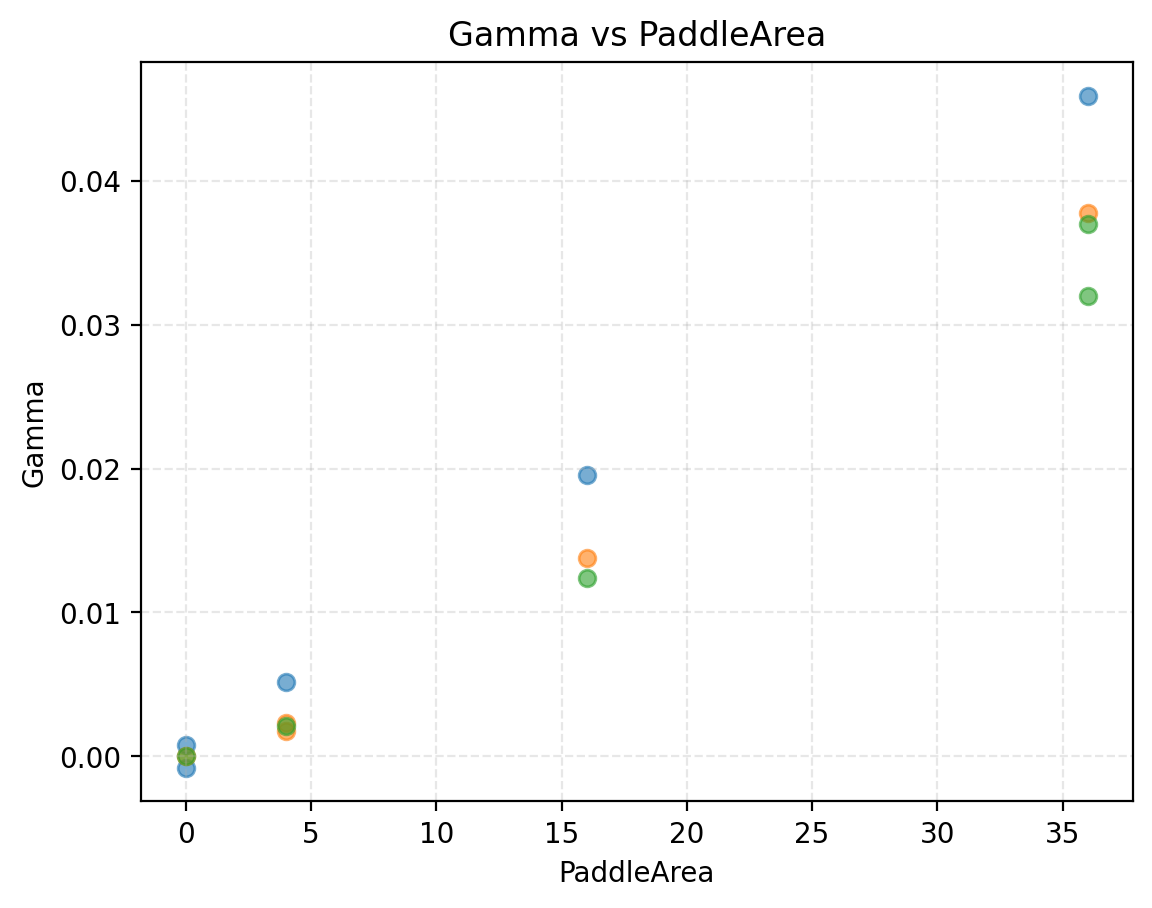
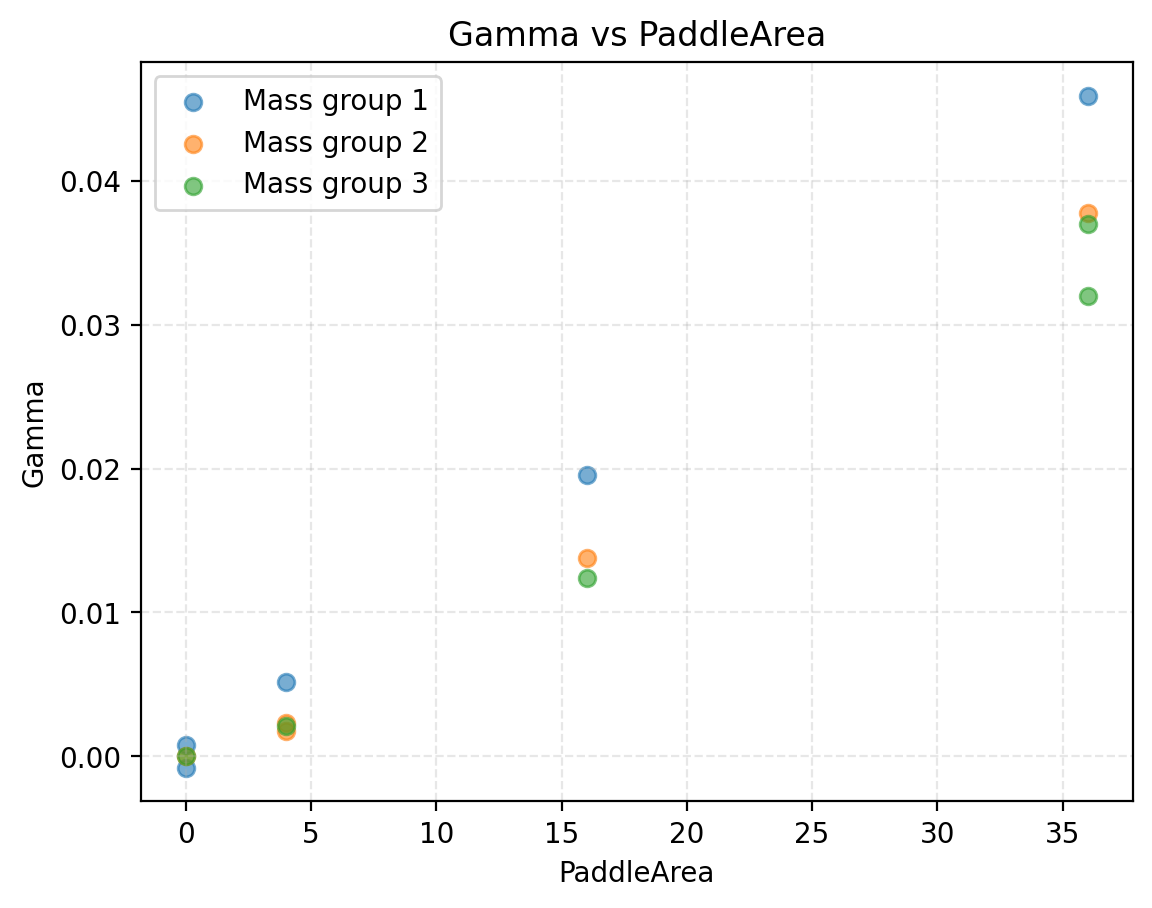
Friday August 21 -- Final Report writing

Changed region(s): [[0.125, 0.0617, 0.375, 0.2467]]

diff --git a/experiment/measuring_paddle_and_mass_effect.py b/experiment/measuring_paddle_and_mass_effect.py
@@ -54,6 +54,7 @@ plot_list([Runs11to15_sorted])
 plt.show()
 
 plot_list([Runs1to5_sorted, Runs6to10_sorted, Runs11to15_sorted])
+plt.legend(['Mass group 1', 'Mass group 2', 'Mass group 3'])
 plt.savefig('figures/gamma_vs_paddle_and_mass.png', dpi=200, bbox_inches='tight')
 plt.show()
 

diff --git a/report/final_report.md b/report/final_report.md
@@ -3,45 +3,24 @@
 **Can AI Discover Physics from Observation?**
 **Aum · HAL Sciences Research Internship · 2026**
 
-> Guidance is in italics. Delete each note as you fill that section in. Write the
-> abstract last. Five or six figures, each one referenced in the text.
-
 ## Abstract
-**Gap** Most of this would probably need to be written from scratch
-_The question, what you measured, what you found about the motion, what the models
-did with your data, and how confident you are. Three to five sentences._
+
+The question is "Can an AI actually reason the laws of nature with enough data, or is it simply using what it already knows?" I did an experiment where I measured the vertical displacement over time of a mass-spring system when pulled a consistant amount with varying masses and paddle sizes. The motion appeared to dampen following the equation for a damped harmonic oscillator: $y(t) = A e^{-\gamma t}\cos(\omega t + \phi) + C$. I had 2 AIs process the data for 2 of my runs and figure out the equations that fit the data to see if they can reason, which they did somewhat like humans. Ultimately, I found the results to be inconclusive as there were was limited data, errors, and other factors that made it harder to determine to what extent the models were reasoning.
 
 ## 1. The question
-**Gap:** need to from scratch why it matters
-_~~State the question~~ and why it matters. Reciting a known law is not the same as
-inferring one from evidence._
+
 Can an AI actually reason the laws of nature with enough data, or is it simply using what it already knows?
+It is important to know the difference between when an AI is just reciting a law compared to when it is genuinely figuring a law out. If AI is to help humanity in the future, it cannot just rediscover already known physics, it has to work with the data to come up with something new. This experiment was designed to see if AIs are capable of figuring out something new from data.
 
 ## 2. Experiment
-**Gap**: more explanation for masses, marker, camera, paddles, the conditions, and how I used the ruler to scale. 
 
-_The apparatus: ~~spring~~, masses, marker, ruler, camera, foam paddles. How you
-weighed the masses and how the ruler was used to set the length scale. The
-conditions you ran, mass against paddle size, ~~the number of runs~~, and how they were
-labeled. Enough detail to repeat it._
-
-I tried a few springs before settling on the final ones, each which had their own problem. The first few springs were problematic because they were super small and super powerful. I could immediately tell they wouldn't work because I could barely stretch them, and even the heaviest of the weights we had wouldn't do enough. Then, we found weaker springs. The problem with some of them was that they couldn't handle the near 300g weight of some of the builds, meaning they would be broken by the time all the trials were done. The spring I settled on was the best of the weaker springs, allowing me to easily stretch it, record it, and not worry about it breaking from all the weight.
-Since I used a yardstick, my data was all collected in inches.
-I pulled the masses down 4 inches before releasing them. I recorded the 15 runs, restarting any that had too much of a side to side angle initially.
+I tried a few springs before settling on the final ones, each which had their own problem. The first few springs were problematic because they were super small and super powerful. I could immediately tell they wouldn't work because I could barely stretch them, and even the heaviest of the weights we had wouldn't do enough. Then, we found weaker springs. The problem with some of them was that they couldn't handle the near 300g weight of some of the builds, meaning they would be broken by the time all the trials were done. The spring I settled on was the best of the weaker springs, allowing me to easily stretch it, record it, and not worry about it breaking from all the weight. The smallest mass I used was 178 grams, the middle mass was 230 grams, and the largest mass was 272 grams. These massses were built from nuts and washers on an eyebolt. I weighed each mass using a kitchen scale multiple times, and took the most common result. The smallest paddle added 1 gram of weight, the medium sized paddle added 7 grams, and the largest paddle added 15 grams of weight. The hook that connected my spring to the maasses had a little red marker on it that I was able to use as a reference point during tracking. My camera was set up level, a decent distance away, alowing me to capture the full vertical and horizontal swing. Each paddle was made of foam cut from the same board, and had dimensions of 2x2, 4x4, and 6x6. They were mounted directly onto the middle of the eyebolt. I set up a ruler next to the hanging mass, just far enough away that it wouldn't interfere with the motion. Since I used a yardstick, my data was all collected in inches. I pulled the masses down 4 inches before releasing them. I recorded the 15 runs, restarting any that had too much of a side to side swing initially. There were 5 runs per mass: 1 for each paddle size (including no paddle), and a repeat for the 5th run of each group. Run05 was no paddle, run10 was a 2x2 paddle, and run15 was a 6x6 paddle. Each run was labeled with a mass and paddle key. M1, M2, or M3, and P0, P2, P4, or P6.
 
 ## 3. From video to data
-**GAP** (I explained some of this in the notebook, but most of the process got reworked over time due to a variety of problems)
-_Tracking, export, sampling rate, and the length of each run. How you cleaned the
-data and where the tracking was unreliable._
+
+I used the Tracker video analysis tool to track the videos. I put them into tracker, and marked a consistent point in my set up every three frames to track the oscillations. I had a red marker on my physical set up that I could follow in tracking. The length of each run was 35 seconds, 30 fps. I exported the data to a csv file using a comma as the delimeter, and then used a python script with pandas to remove lines that had any missing values (which were the lines that had the untracted frames.) The way I calibrated the tracking was scaling with the ruler.  The tracking only really appeared unreliable for run 15, where there were seemingly random peaks every 3 or so oscillations.
 
 ## 4. The motion
-**Gap:** Which model the residuals rule out and the figures. Most of the figures explanation portion of the notebook is written as if you already know everything there is to know, so ideally I would rewrite that here
-_~~Fit the simple harmonic model, then the damped model. Show the residuals for both~~
-and explain which model the residuals rule out._
-
-_~~Report omega and gamma across the runs. How omega varies with mass, how gamma
-varies with paddle size~~, and what happens to that relationship once the mass is
-accounted for. ~~State your uncertainty in gamma~~ and where it comes from._
 
 ![Figure 1: run04, raw data and damped fit](../figures/fit_run04.png)
 ![Figure 2: run11, raw data and damped fit](../figures/fit_run11.png)
@@ -49,6 +28,7 @@ accounted for. ~~State your uncertainty in gamma~~ and where it comes from._
 ![Figure 4: omega against mass](../figures/omega_vs_mass.png)
 ![Figure 5: gamma against paddle](../figures/gamma_vs_paddle.png)
 ![Figure 6: residuals, simple harmonic against damped](../figures/residuals_fit_run04.png)
+![Figure 7: Paddles and mass against gamma](../figures/gamma_vs_paddle_and_mass.png)
 
 Table: fitted parameters, all runs 
 | run | A | gamma | omega | phi | C | mass_grams | paddle_inches |
@@ -76,19 +56,9 @@ Figure 4 depicts how mass influences $\omega$ (omega), which follows the period 
 Figure 6 is there to show why there is a damping factor at all. It depicts the residuals when using a simple fit versus the more complicated fit for damped harmonic motion. When I plotted the graph of the simple model's residual, the residuals appeared to follow asymptotes similar to hyperbolas, slightly rotated. There is a moment in the middle where the swap between the predictions having a magnitude too low and too high is visible. I plotted the residual for the damped model and it looked like basically random noise that's only pattern was having highs and lows on somewhat regular intervals, though with almost random (small) magnitudes. The residuals look completely different because the simple model's residuals were just way larger.
 Omega decreased as masses increased, matching my earlier predictions. Omega decreasing means a longer period. This follows the period equation (which predicts that mass increases period). The omega values varied a decent bit in each mass group, but there is still a very clear trend line showing omega decreasing with mass. In the gamma verse paddle_size plot, it appears gamma increases with paddle sizes. It too varies a lot in each paddle group, with the sort of following a power curve, but it is unclear due to the fact there are only 4 sizes. Sizes 0 and 2 are pretty similar to each other, but by paddle size of 6, it becomes significantly clearer that paddles have a huge impact on gamma, meaning they increase decay rate as predicted.
 There is some uncertainty in the gamma and omega values. The gamma values in run 1 vs run 5 are 0.0014 away, and omega values are 0.06 away. These aren't the largest differences, but they are relatively big still. The uncertainty in gamma is close to roughly 0.005 overall, as that is the gap in the gammas between runs 14 and 15.
-When comparing gamma to paddle size squared, instead the effect of paddle surface area can be seen. After adjusting the gamma values to remove the baseline gamma from the spring and masses, the gamma vs paddle size squared ratio appears to be quite linear. When accounting for mass, the relationship should have been $p_c = \tfrac{2*m*\omega_a}{size^2}$ where $p_c$ is paddle constant, $m$ is mass, $\omega_a$ is omega adjusted, and $size^2$ is paddle area. After following this equation, each paddle size should have a roughly equal constant, but instead I found that they only held for the smallest masses I tested. When working with bigger masses, each paddle seemed to have a random constant that didn't even hold between seemingly identical runs (like runs 7 and 10 having constants that were different by about 0.07 despite having the same mass and paddle size). It can't be known from just this data alone, but it is likelier that the paddle constants are similar and do follow that equation because they held for the only mass group where the baseline damping that I subtracted was an average of 2 numbers, meaning more precision. Another potential reason these numbers were off is because of the actual way air resistance works. Air resistance on a flat paddle is closer to being proportional to speed squared, but my assumptions are off the idea that air resistance is proportional to speed. These are good effective numbers, but not really exact physical constants.
+When comparing gamma to paddle size squared, instead the effect of paddle surface area can be seen. After adjusting the gamma values to remove the baseline gamma from the spring and masses, the gamma vs paddle size squared ratio appears to be quite linear. This is what appears in figure 7, with each mass group getting a different color. When accounting for mass, the relationship should have been $p_c = \tfrac{2*m*\gamma}{size^2}$ where $p_c$ is paddle constant, $m$ is mass, $\gamma$ is gamma adjusted, and $size^2$ is paddle area. After following this equation, each paddle size should have a roughly equal constant, but instead I found that they only held for the smallest masses I tested. When working with bigger masses, each paddle seemed to have a random constant that didn't even hold between seemingly identical runs (like runs 7 and 10 having constants that were different by about 0.07 despite having the same mass and paddle size). It can't be known from just this data alone, but it is likelier that the paddle constants are similar and do follow that equation because they held for the only mass group where the baseline damping that I subtracted was an average of 2 numbers, meaning more precision. Another potential reason these numbers were off is because of the actual way air resistance works. Air resistance on a flat paddle is closer to being proportional to speed squared, but my assumptions are off the idea that air resistance is proportional to speed. These are good effective numbers, but not really exact physical constants. Noticably in the data, every run with a 6 inch paddle had a roughly equal guess for the constant. This guess also matches with the guess that can be made from the first mass group: 0.45. Perhaps the issue that caused the constants to be so random was that the paddle sizes were so small the effects were negligible, which would also explain why the gaps for the 2x2 in paddle were so large.
 
 ## 5. Testing the models
-**Gap** Actual explanation of the prompts, the actual runs chosen, and the specific model of each model
-_~~The four rungs~~. For each, what was given and what was withheld, and how the answer
-was kept out of the prompt. The two runs, and why the same prompt on two different
-runs is a controlled comparison. The two models tested._
-
-_Then the results. ~~The reasoned, recognized and failed classification across both
-models.~~ The claimed values against your fitted values, including the unit
-conversions needed before they could be compared. Whether the models distinguished
-the two runs, and whether they said so or only behaved differently. What they
-claimed about their own confidence, against what their answers showed._
 
 Reasoned, recognized, failed, both models, all eight answers
 
@@ -133,16 +103,14 @@ I have this data with 2 columns, column 1 and column 2. Find some equation that 
 
 I did an experiment, and here is the data that came from it. The first column is time in seconds, and the second is a measurement. What processes could produce this data and what equations would fit it? How confident are you in your answer and what in the data supports it?
 
-
-ChatGPT and Claude are two of the most advanced AIs there are. They could look at a bunch of data without even knowing what the numbers mean, and come up with an equation to fit the data. Both AIs acted very similar throughout the ladder, following the patterns when they were told more, sometimes reasoning when they were told less, and sometimes failing to reach the proper solution entirely. 
+The AIs responded very differently betweens the runs is because of the runs chosen. The first 4 prompts used the data from run04, which was the run that had the most damping across all 15 of my runs. This meant the AIs were significantly more likely to add a damping factor to their equations. On the other hand, they had to work with the data from run11 for the other 4 prompts. That data barely had an damping at all, so the AIs often omitted the damping factor from their equations. They only put it into rung 1 because it was an explanation of the experiment, and the little bit about the paddles probably subtly hinted to them that damping matters. Rung 2's prompt, on the other hand, only tells them that there was an experiment involving time, not what the experiment actually was. This meant they couuld guess that it was some physical process that involved oscillations, but they couldn't guess what. Rung 4 was similar to rung 2, except the AIs had to work with rounded data. The major difference in the data also meant that rung 4 was perfect to check for the AI's confidence in their answers, as they had much less to work with. Rung 3 doesn't use rounded data, but uses a more obscure prompt. Instead of knowing I did an experiment involving time, all the AIs knew is that I had some data. They were asked to relate the data and explain why they related the data the way they did, but not what could produce it. Also, the AIs gave the numbers in a variety of different ways. ChatGPT gave omega using period in rungs2-4 for run11, so I converted it back into omega using $\omega = \tfrac{2\pi}{T}$. Similarly, on rung 4 for both runs, Claude gave omega in frequency, so I had to convert it back into omega using $\omega = 2\pi f$. Claude also gave gamma in $\tau$ (tau) the majority of the time, which I converted using $\gamma = \tfrac{1}{\tau}$
+ChatGPT 5.5 and Claude Opus 5 are two of the most advanced AIs there are. They could look at a bunch of data without even knowing what the numbers mean, and come up with an equation to fit the data. Both AIs acted very similar throughout the ladder, following the patterns when they were told more, sometimes reasoning when they were told less, and sometimes failing to reach the proper solution entirely. 
 On the first prompt, when they were told basically everything, both times the AIs successfully pattern matched with what they had seen before, knowing that the mass-spring system is oscillations. They used this information, along with the information about the paddles, to successfully come to the correct general equation. Interestingly,  not giving this information while giving the same data sometimes altered the equation. When only told the time, in rung 2, they again seemed to pattern match with the damped data. They didn't seem to provide any reasoning, but rather recognized the oscillations and came to the equation. What is interesting is when given the data with less damping, they actually seemed to reason the equation. One possible reason this seemed to happen is that they decided to justify why there was no damping factor in their equation, though that a damping factor could be possible. Rung 3, with the information that the first column is time hidden, seemed to challenge the AIs more. They paid more attention to the data, and managed to reason their way to the equations. They reasoned why there should be a damping factor in the more damped run, but left the factor out in the less damped run. They seemed to both not even acknowledge damping this time, but also did not even acknowledge the physical processes that could have been involved (or in the case of Claude, hyper focused on unecessary specifics). Finally, on the last rung, there was a difference between the models. In the run that was less damped, both successfully reasoned through their equations. What is interesting is that when there was more damping, GPT seemed to have pattern matched whereas Claude actually explained its answer. This was an interesting difference, but it is one of many.
 This agreement seems to show some small differences in the way the models behave, but the difference only occured once. Additionally, while the models acted as though they reasoned some of the time, they also showed signs of patttern matching. In one case, Claude even said that the data had oscillations the "signature" of the governing equation. The slight difference between the models, and the fact they chose a different equation with different prompts, is also something that would be present in humans. These similarities and oddities in their reasoning could be caused by anything from similar training data to the fact they are trained to be somewhat similar to humans. The data can support such conclusions, but at the same time also supports that the AIs are just really good pattern matchers and isn't completely proof they can reason. Additionally, the AIs are extremely confident, but that confidence doesn't seem to hold up. First, it is important to distinguish the confidence they claimed and the confidence they showed. Both models claimed to be very confident with their numbers when asked, but also give a ton of other explanations and equations to everything they said, suggesting that they not have been as confident as they claimed. They were correct to not be completely confident on the physical processes as they gave many example, not all of which were mass-spring systems, but the numbers are another story. The percent error on rung 4 for both runs is some of the highest error for both AIs, yet they also both claimed "high confidence" in their numbers. Their numbers were indeed quite close to the actual numbers, but that "high confidence" claim doesn't really hold up well; Claude even mentioned that it didn't know if its numbers were actually correct despite claiming to be confident on its numbers at one point. Rung 1 was a great run to act as basically a control run, testing if the models can get to the answer at all when everything is handed to them. Rung 2 is a good run for seeing if removing just a few pieces of information drastically changes the answer, and it also supports rung 4. Rung 3 was an interesting rung since it doesn't really ask for a process (hence why the AIs didnt provide one), but it still does somewhat test reasoning while not even asking for it. Ultimately, rung 4 was the best test instrument because it confronted the AIs directly asking for their confidence, while also hinting that reasoning was wanted (without explicitely asking for it). 
 
 ## 6. Discussion and limitations
-**GAP** Would need to be written from scratch
-_What the results mean, and what they do not establish. Sources of error:
-calibration, tracking noise, the fit window, the number of runs and models, prompt
-design, and the variability of model output on identical input._
+
+These results imply that both of these AIs have some level of human-like reasoning, and clearly show that at the very least, they can recognize patterns in data. These results cannot concretely establish that the AIs are actually capable of reasoning, though. Both models answer to the best of their abilities based on the prompts they were given. These prompts also might've subtly influenced the models, making it harder to analyize their results. Since no prompts besides those in rung 4 ask for confidence, confidence was only implied in most runs. Additonally, rung 3 never asks for the physical process, so the models often didn't provide any for that rung. The reason the AI's reasoning seems human-like is because of these prompts, however. For run11, both models only put a damping factor in when paddles were mentioned but otherwise did not. Similarly, humans can often change their behaviors depending on context, so including the damping factor only when given this context is quite human-like. Despite this, the models still seem to prefer pattern matching over genuine reasoning. Both Claude and ChatGPT implied this occassionally by mentioning how the data looked sinusoidal, meaning it followed a certain already established equation. There were some other limitations as well. The fact there were only 2 models is another limitation to this experiment, as it means less information to work with. Also, models can vary their responses to identical prompts, and only one response for each prompt was even looked at. There are other sources of errors in this experiment too. There was clearly some noise in tracking, which is especially visible in run15. Additionally, any issues in the calibration could've influenced the data, and each of these errors would be magnified by the fact that there were only 15 runs to work with, of which only 2 were given to the models. There were also issues in the analysis of the physics itself. The fact only 1 run in each mass group (besides the first) had no paddle meant that the baseline being worked with was less accurate. This contributed to problems such as those with calculating the paddle constant, along with assuming things like air resistance being proportional to speed rather than speed squared.
 
 ## 7. Reflection
 
@@ -153,18 +121,16 @@ If I had another week to test these models, I think I would change the units, an
 
 ## 8. Conclusion
 
-**GAP** mostly from scratch
-_The answer, or the honest non-answer, to the question in section 1._
+So can an AI actually reason the laws of nature with enough data, or is it simply using what it already knows? The honest answer that came out of this experiment is that it is still hard to say. There were only 2 runs, each of which got 4 prompts to test the 2 models. The AIs acted as though they reasoned when they weren't given enough info to instantly pattern match, yet still implied they did indeed pattern match by looking at oscillations and saying they must follow an already known equation. The models acted like humans in that they saw an already solved problem and recited the solution, but ultimately there was nothing new so it is hard to definitively say whether this was done by reasoning the law or recalling it.
 
 ## Data and code
-**GAP**
-_Where the dataset and the analysis code can be found._
 
+The dataset and analysis code can be found at github.com/HAL-Sciences/aum-physics-internship. 
 ---
 
 ### Before you call it done
-- [ ] Every figure is labeled and referenced in the text.
-- [ ] Every claim is supported by your data.
-- [ ] Limitations stated, including the ones that weaken your result.
-- [ ] You can explain every sentence and every line of code.
-- [ ] Abstract written last, and consistent with the report.
+- [x] Every figure is labeled and referenced in the text.
+- [x] Every claim is supported by your data.
+- [x] Limitations stated, including the ones that weaken your result.
+- [x] You can explain every sentence and every line of code.
+- [x] Abstract written last, and consistent with the report.

diff --git a/notes/research_notebook.md b/notes/research_notebook.md
@@ -663,3 +663,12 @@ Mass group one had the closest constants by far. I imagine this is due to the fa
 **AI help today:** none
 ```
 
+```
+### August 21 — Final report
+
+**Goal today:** Finish the remaining sections in the final report.
+
+**What worked:** I wrote everything that was necessary, though it was hard to get the wording to work well in a lot of areas. I also updated my figure from yesterday to have labels.
+
+**AI help today:** I wrote what I wanted to first, then asked ChatGPT to rewrite it to be clearer. I noticed it had a tendency to use larger words or assume something meant something it didn't, but the tool was still helpful for reordering things that felt out of place, whether it was a weirdly ordered sentence or weirdly ordered paragraph.
+```
